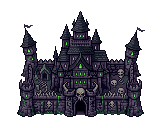
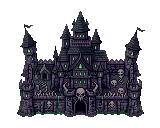
Ville des morts-vivants : contour adouci ; PLAN, HISTORIQUE et METHODE

diff --git a/HISTORIQUE.md b/HISTORIQUE.md
@@ -775,6 +775,12 @@ Après l'IA (choix de l'utilisateur), qui devra ensuite apprendre la magie et le
   mort et boule de poison de la Liche, hache de l'Orc, flux de sang du Vampire, poison (bulles, troupe qui verdit),
   régénération du Troll, âmes du Fantôme, auras des sorts. Réglage de la vitesse des projectiles : `ProjectileSpeed`
   (le bouton de l'écran de combat est fait par l'autre session).
+- ✅ Ville barbare sur la carte (2026-11-09, branche `ville-barbare`, PixelLab « Pro » 160 × 128, 0,46 $) : choix de
+  l'utilisateur, une **forteresse de pierre brute** (murs de rochers, tours rondes, donjon au toit de chaume, huttes, porte
+  au milieu du bas, crânes, bannières rouges) avec une **grande tente de peau** au milieu des huttes. Le premier lot était
+  trop « croustillant » : le second demande des formes simples et un ombrage doux, avec la ville du Château comme image
+  de style (au lieu de la mine d'or) et le candidat aimé comme modèle. Le contour noir trop épais est adouci
+  (`tools/art/adoucir.py`, assombrir 0,7, seuil 60, 2 passes), et la ville des morts-vivants de même.
 - ✅ Créatures barbares (2026-11-09, branche `creatures-barbares`, PixelLab, environ 3 $) : fiches dans
   `tools/art/creatures-art.json`, faites avec `tools/art/creature.py`. Choix de l'utilisateur : **Nomades**, archers à cheval des
   steppes au repos (sabre baissé), sur **2 cases** ; **Oiseau-tonnerre**, oiseau-totem (rouge, noir et blanc), ailes repliées,

diff --git a/tools/art/METHODE.md b/tools/art/METHODE.md
@@ -178,6 +178,11 @@ les clés et le dossier `art-candidats/` sont décrits dans `CLAUDE.md` ; l'hist
   découpée en cases). Description « seen from the front at a low angle, almost a straight side view », la ville
   assemblée comme modèle (disposition), `objects/mine-gold.png` comme style. Un candidat sur quatre recopie le modèle.
 
+- **Ville barbare (2026-11-09)** : une image trop détaillée (« croustillante ») s'adoucit en ajoutant « simple clean
+  shapes, smooth soft shading, few small details, not noisy, not grainy » et en prenant `objects/town.png` comme style ;
+  le contour noir épais des villes de PixelLab s'adoucit avec `adoucir.py` (0,7, 60, 2 passes : le bord prend une teinte
+  sombre de sa couleur), sans dépense. Le candidat aimé, donné comme modèle, garde la disposition d'un lot à l'autre.
+
 ## Grands objets de la carte (mines…)
 - **Méthode** : des **pièces** séparées faites par Retro Diffusion (`assets.json`, groupe `pieces/` : cabane, chariot,
   chevalet, souches, entrée de mine, chariot sur rails…), **sans socle**, puis **assemblées** aux proportions de Heroes

diff --git a/PLAN.md b/PLAN.md
@@ -401,6 +401,8 @@ croissance, prix, garde.
   de chaque objet, d'après des pieds revus par l'utilisateur (`godot/art/pieds.json`, `tools/art/pieds.py`) ; scierie
   refaite (cabane de trois quarts, PixelLab). Détail dans `HISTORIQUE.md`. Reste : vérifier les pieds des mines de
   mercure, minerai et soufre, et la force de l'ombre de contact en jeu.
+  ✅ **Ville barbare sur la carte** (2026-11-09) : forteresse de pierre brute avec une tente de peau ; contour noir adouci
+  (aussi sur la ville des morts-vivants). La ville vue de face par faction reste à faire (voir plus bas).
   ✅ **Créatures barbares** (2026-11-09, branche `creatures-barbares`) : Nomades (2 cases), Oiseau-tonnerre (1 case, vol
   avec envol et atterrissage), Béhémoth (1 case, debout) : images de combat, animations et images de la carte. Détail
   dans `HISTORIQUE.md`.
